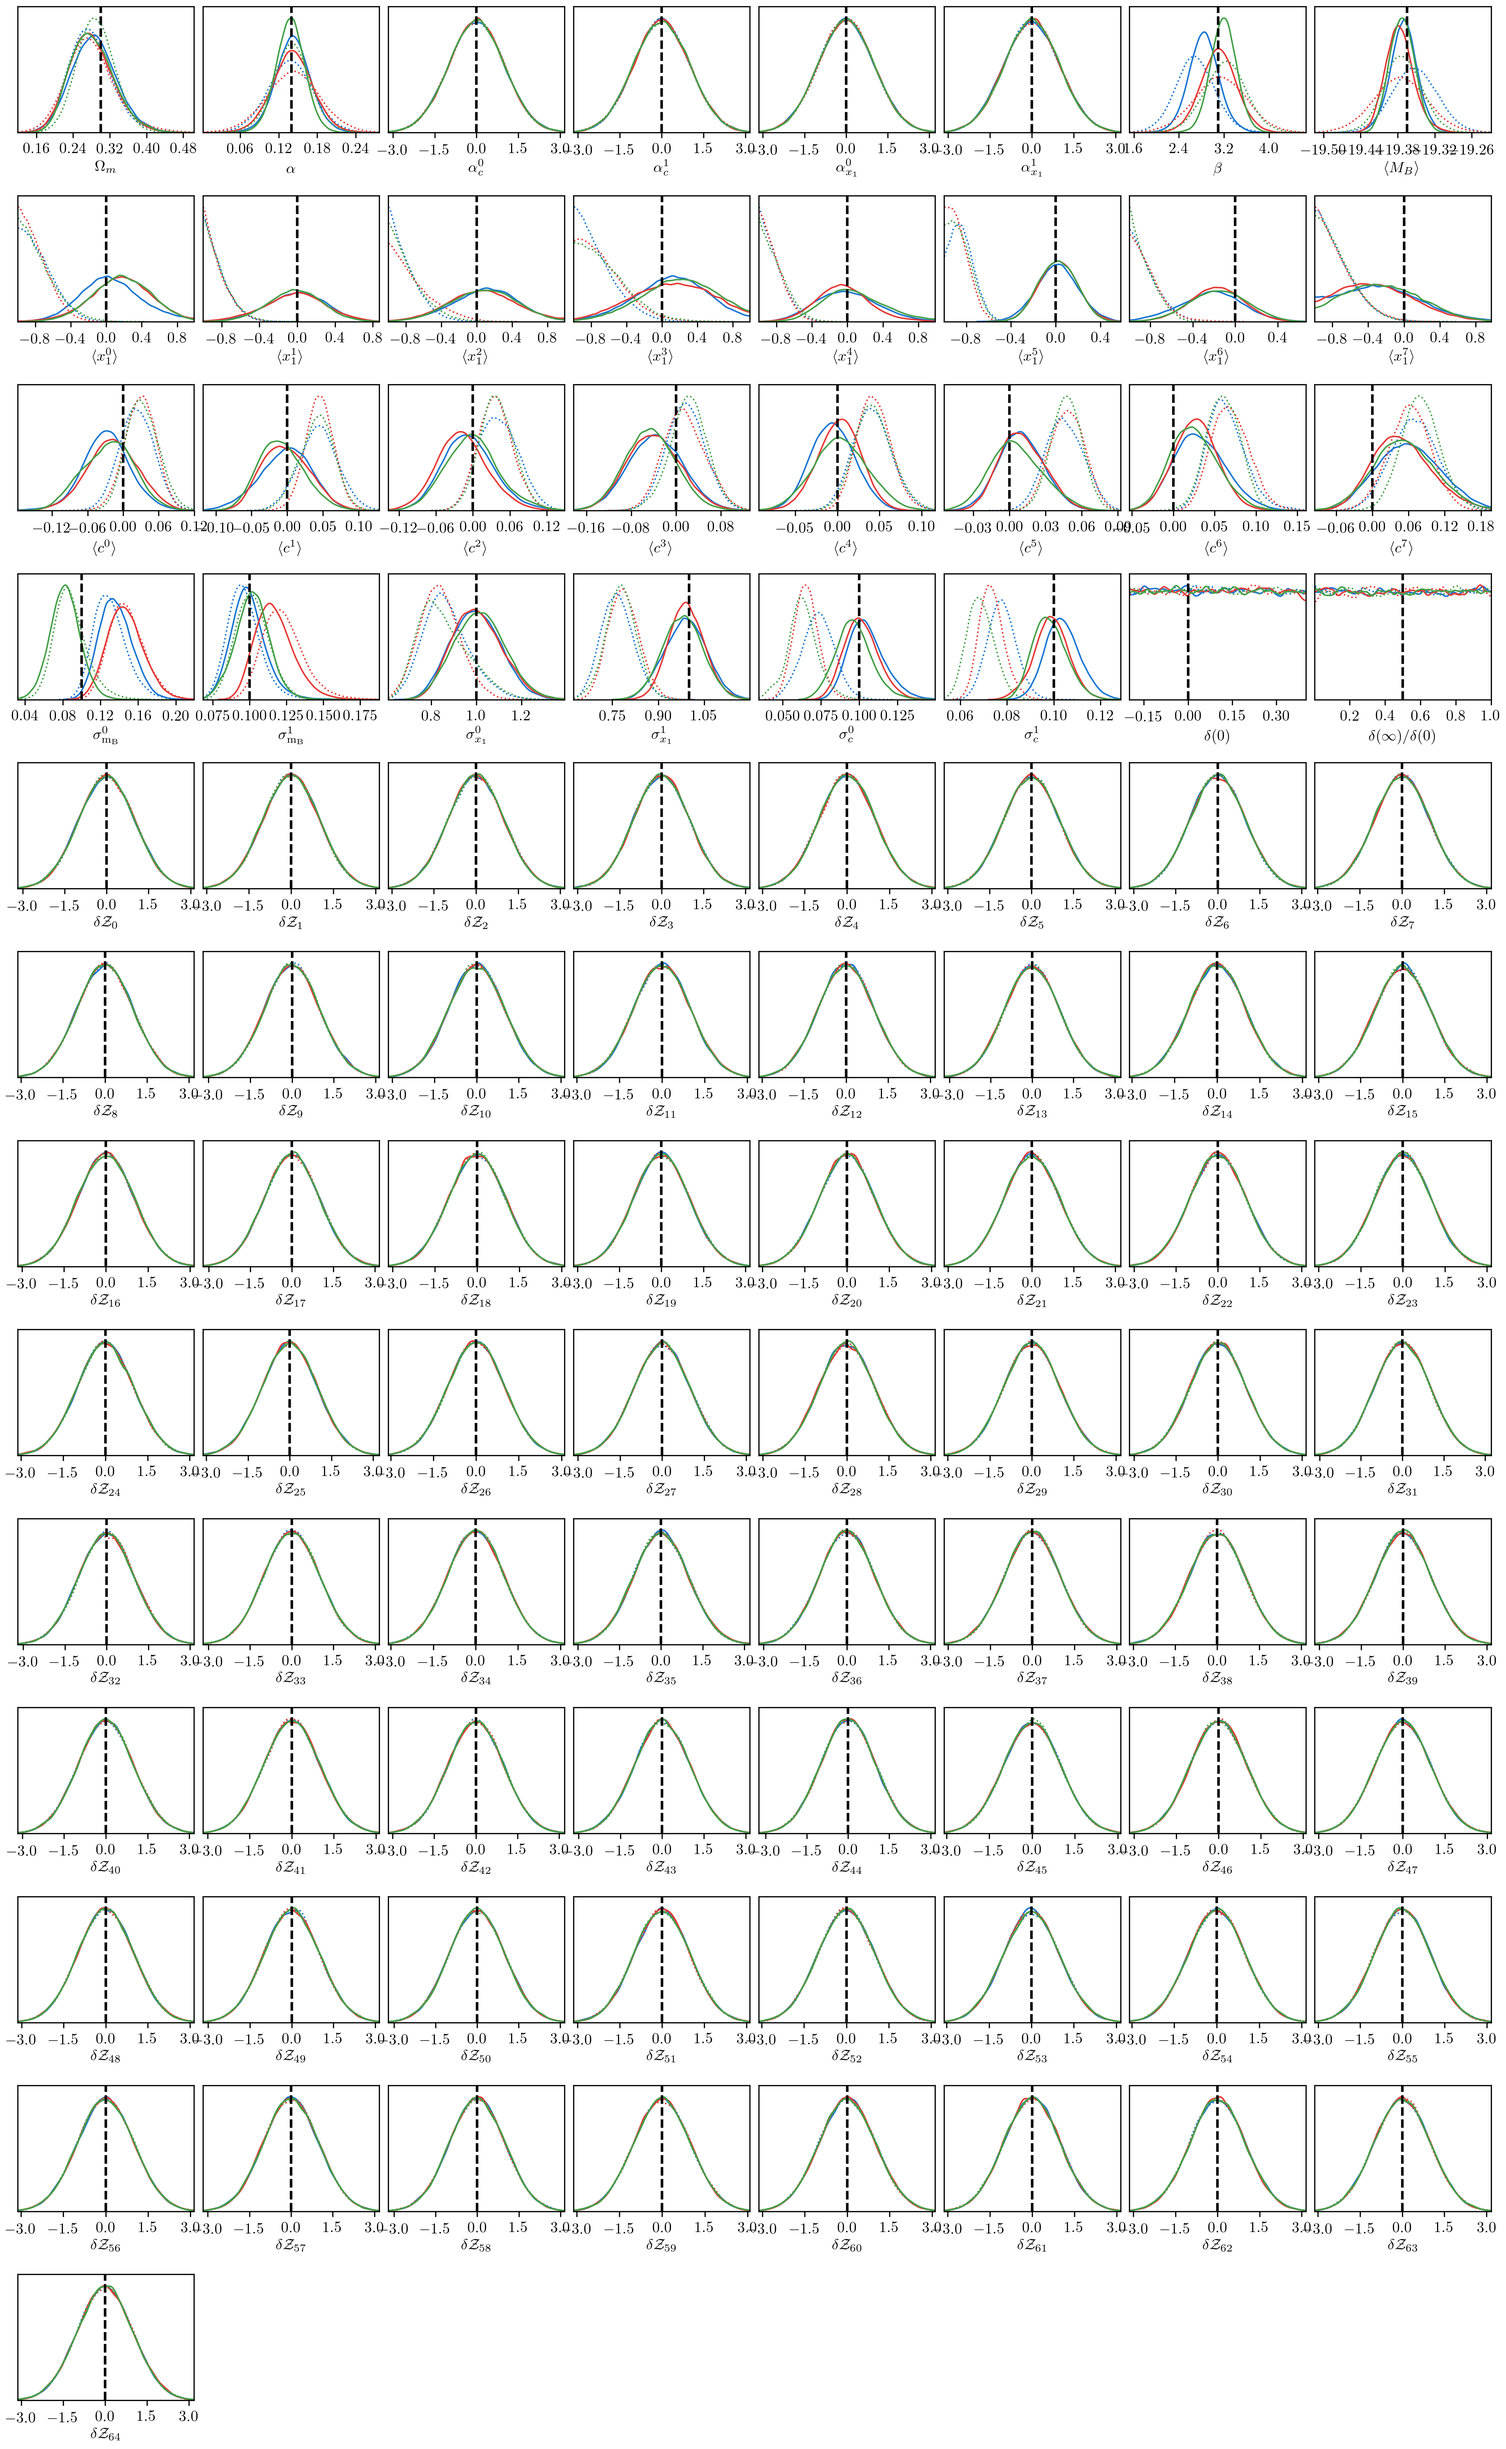
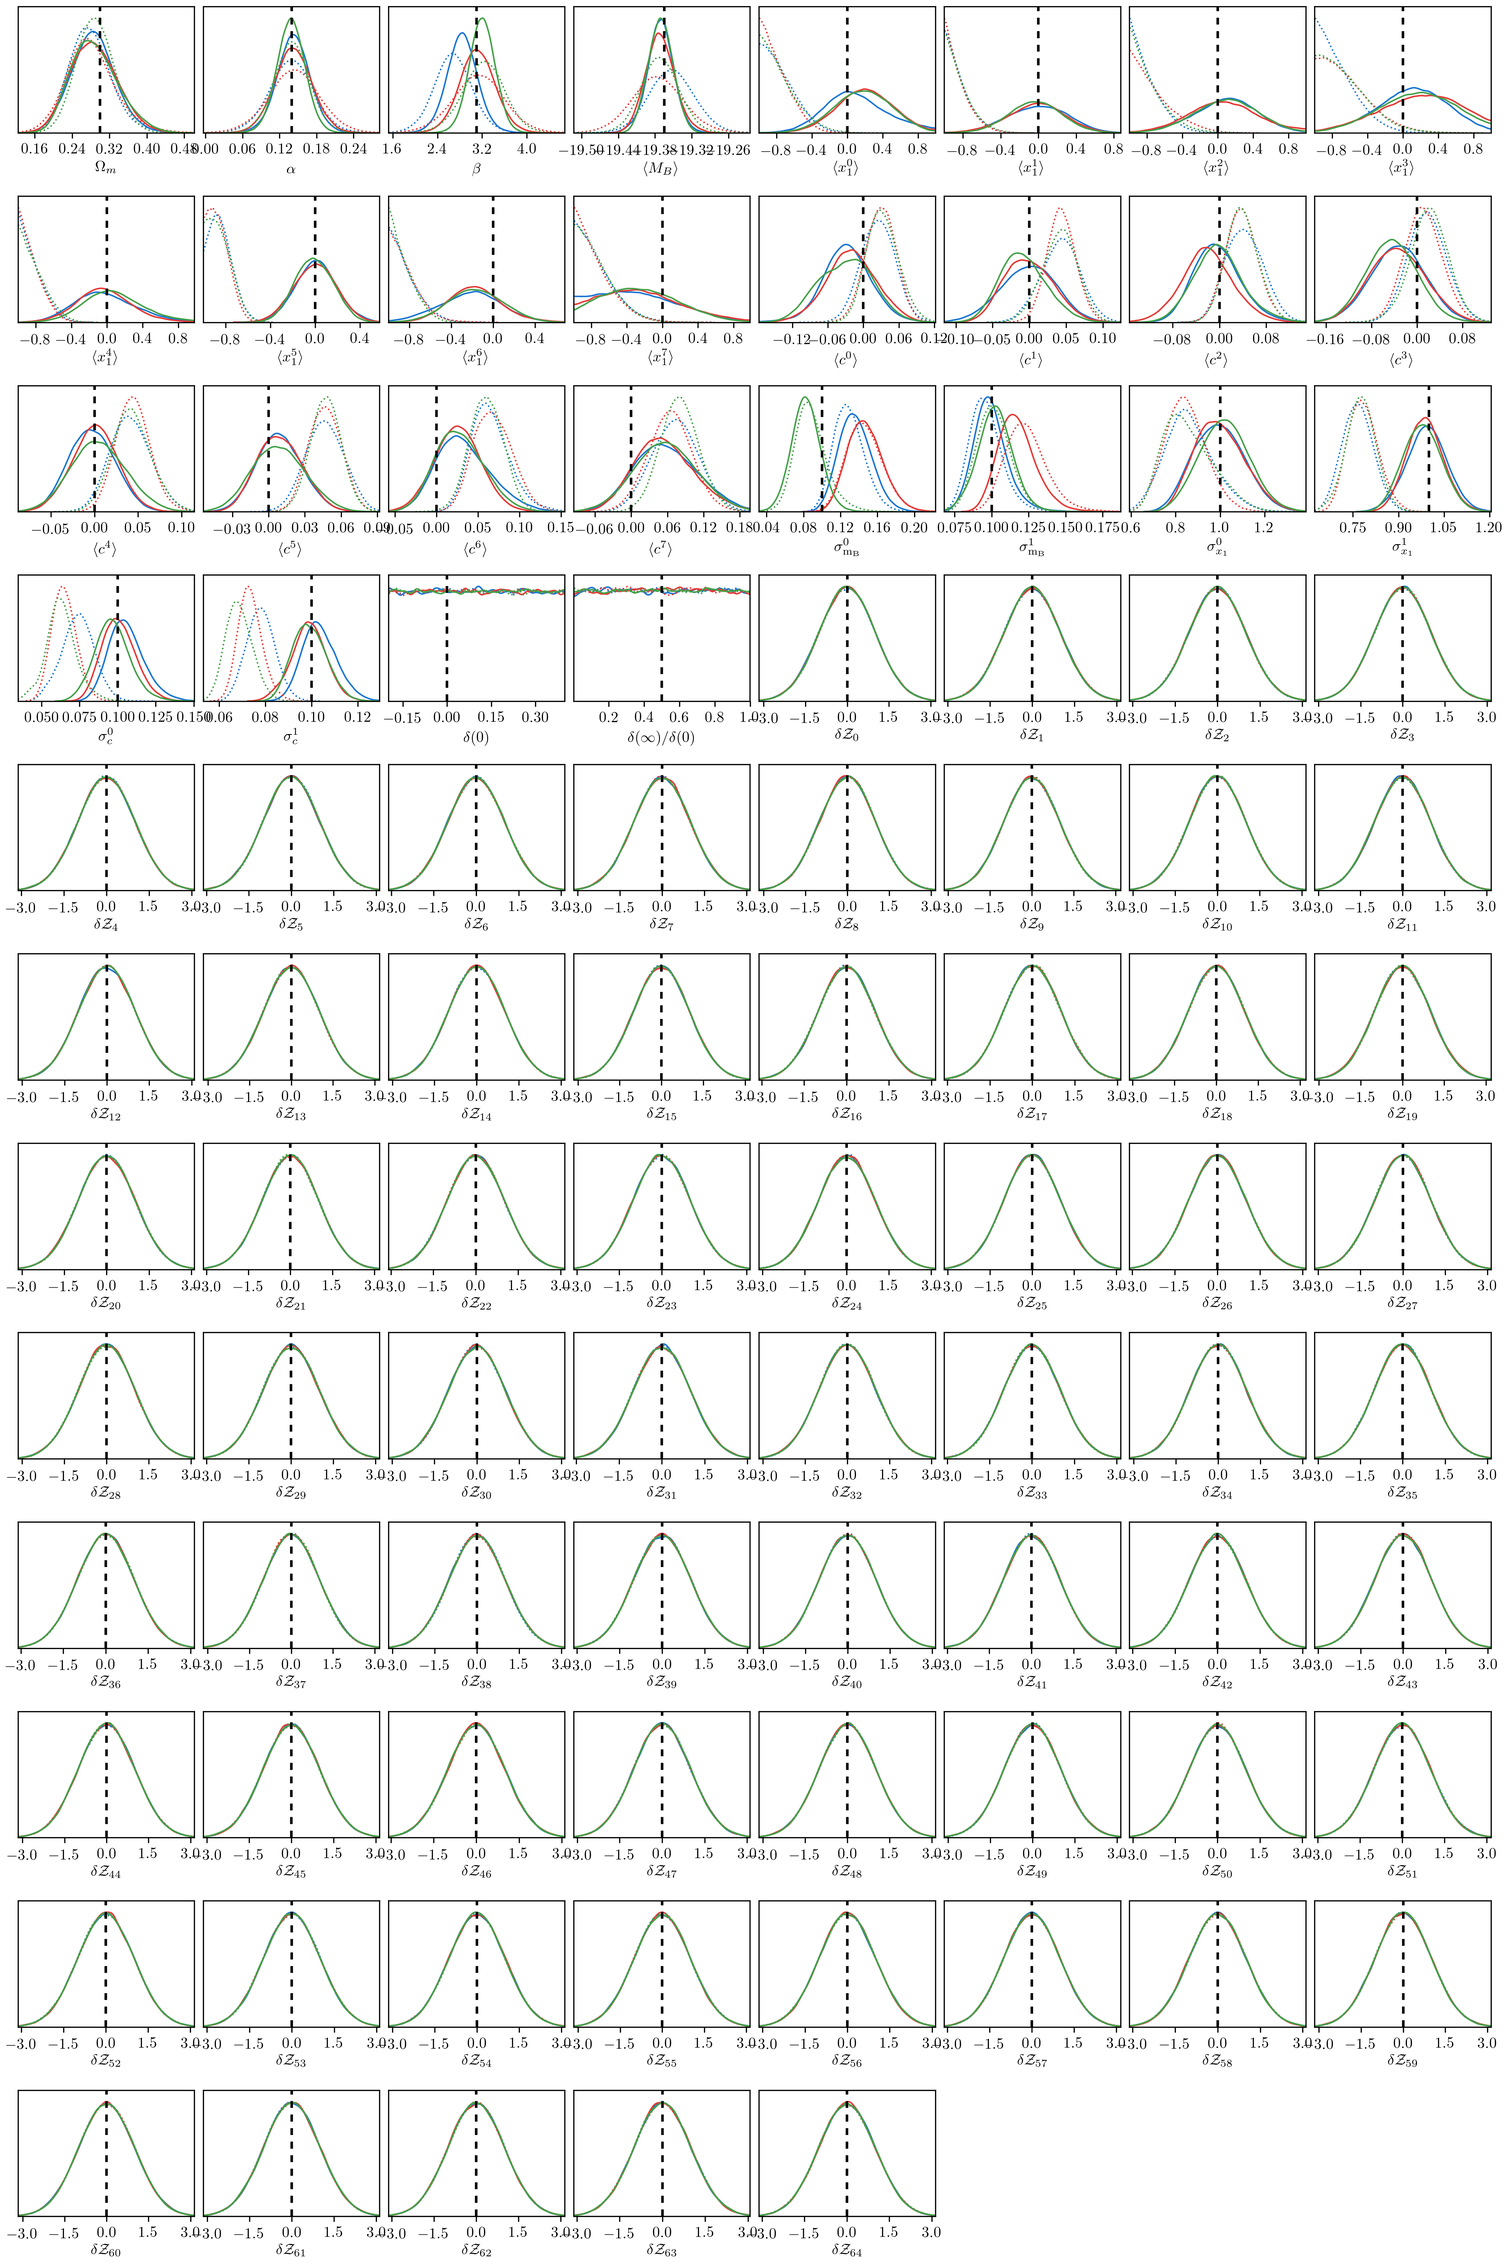
Bulking "done". Will see if I get responses on skew normals on the Stan board

diff --git a/dessn/configurations/approximate_bulk_load.py b/dessn/configurations/approximate_bulk_load.py
@@ -50,5 +50,7 @@ if __name__ == "__main__":
                 colors=colors, shade_alpha=alphas, shade=True)
     c.plotter.plot_distributions(filename=plot_filename.replace(".png", "_dist.png"), truth=truth, col_wrap=8)
     params = ['$\\Omega_m$', '$\\alpha$', '$\\beta$', '$\\langle M_B \\rangle$']
-    c.plotter.plot(filename=plot_filename, parameters=params)
+    c.plotter.plot(filename=plot_filename, parameters=params, truth=truth)
+    with open(plot_filename.replace(".png", ".txt"), 'w') as f:
+        f.write(c.analysis.get_latex_table(parameters=params))
 
